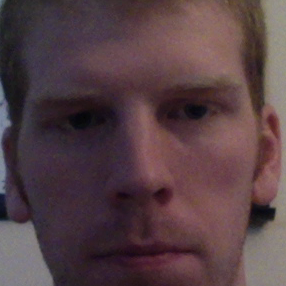
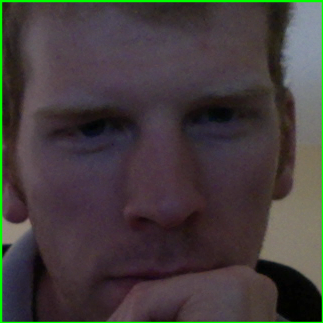
Update to add detection and squares.

diff --git a/src/FaceScanner.java b/src/FaceScanner.java
@@ -14,6 +14,7 @@ import org.neuroph.imgrec.ImageRecognitionHelper;
 public class FaceScanner{
     
 	IplImage image;
+	static boolean displayRects;
 	static String filename;
 	static String recFilename;
 	static int width, height, x, y;
@@ -32,6 +33,7 @@ public class FaceScanner{
 		x = 0;
 		y = 0;
 		recognize = false;
+		displayRects = true;
 		
 		//helper = new ImageRecognitionHelper();
 		canvasDim = new Dimension();
@@ -76,21 +78,25 @@ public class FaceScanner{
 				try{
 					faceDetect.DetectFaces(image);		//Used primarily to populate the width, height, and location of the face to be detected.
 					
-					/*Uncomment to display the detection lines and uncomment the rectangle drawing in FaceDetector class*/
-					//canvas.showImage(image);
-					//Thread.sleep(1000);		//Delay time to see the faces that are detected before choosing the closest.
-					//image = cvLoadImage(filename, 1); 	//Reload image to remove rectangle
-					/*----------------------------------------*/
+					if(displayRects){
+						/*Uncomment to display the detection lines and uncomment the rectangle drawing in FaceDetector class*/
+						canvas.showImage(image);
+						Thread.sleep(1000);		//Delay time to see the faces that are detected before choosing the closest.
+						//image = cvLoadImage(filename, 1); 	//Reload image to remove rectangle
+						/*----------------------------------------*/
+					}	
 					
 					croppedImage = cropImage(image.getBufferedImage());
-					
-					/*Uncomment to zoom and show the closest face*/
-					//canvas.showImage(croppedImage);
-					/*-------------------------------------------*/
-					
+		
+					if(displayRects){
+						/*Uncomment to zoom and show the closest face*/
+						//canvas.showImage(croppedImage);
+						/*-------------------------------------------*/
+					}
 					cvSaveImage(filename, IplImage.createFrom(croppedImage));
 					//helper.createNewNeuralNetwork("ann", canvasDim, ColorMode.FULL_COLOR, arg3, arg4, arg5);
 					JOptionPane.showMessageDialog(null, "User " + filename.replace(".png", "").replace("Users/", "") + " was added to the system.");
+					filename = "Users/temp.png";
 				} catch (Exception e) {
 					JOptionPane.showMessageDialog(null, "There are no faces detected, please rescan to try again.");
 				}
@@ -105,7 +111,7 @@ public class FaceScanner{
 					// Train the neural network with the images saved in Users and then 
 					// recognize the face by finding the user with the highest accuracy
 					// in comparing the two images.
-					//user = faceRecognize.callNetwork("Users/", recFilename, "temp");
+					user = faceRecognize.callNetwork("Users/", recFilename, "temp");
 					
 					JOptionPane.showMessageDialog(null, "User " + user + " was detected with a " + 10 +  "% accuracy level.");
 				} catch (Exception e) {

diff --git a/src/FacialRecognizer.java b/src/FacialRecognizer.java
@@ -30,11 +30,11 @@ public class FacialRecognizer {
 	 * OUTPUT: String of filename of that file in training directory
 	 */
 	public static String callNetwork(String dir, String dir2,String imageName) throws FileNotFoundException, IOException {
-		dir = "/Users/bradg0620/Dropbox/Projects/Java/Facial-Recognition/Users"; // directory of images for training
-		dir2 = "/Users/bradg0620/Dropbox/Projects/Java/Facial-Recognition/Users/Brad.png";		//location of file to be identified
-		imageName = "Brad";
+		//dir = "/Users/bradg0620/Dropbox/Projects/Java/Facial-Recognition/Users"; // directory of images for training
+		//dir2 = "/Users/bradg0620/Dropbox/Projects/Java/Facial-Recognition/Users/Brad.png";		//location of file to be identified
+		//imageName = "Brad";
 		String answer = "";
-		
+
         answer = identify(dir, dir2, imageName);
 		
 		return answer;
@@ -50,14 +50,19 @@ public class FacialRecognizer {
 		
 		final File dir = new File(dir1);
 		for(File imgFile : dir.listFiles()) {
-			String path = imgFile.getAbsolutePath();
-			String newPath = path.replace("\\", "/");
-		//	System.out.println(newPath);
-			fileName = imgFile.getName();
-			if(!newPath.contains("png"))
-				break;
-			aNode = runNN(newPath, dir2, fileName);
-			ary.add(aNode);
+			if(!imgFile.isHidden()){
+				String path = imgFile.getAbsolutePath();
+				String newPath = path.replace("\\", "/");
+			//	System.out.println(newPath);
+				fileName = imgFile.getName();
+				System.out.println("FileName: " + fileName);
+				System.out.println("New Path: " + newPath);
+				System.out.println("Dir 2 " + dir2);
+				if(!newPath.contains("png"))
+					break;
+				aNode = runNN(newPath, dir2, fileName);
+				ary.add(aNode);
+			}
 		}
 		
 		double lowest = ary.get(0).getFieldTwo();
@@ -96,7 +101,7 @@ public class FacialRecognizer {
 	         File imagefile = new File(dir1);
 	         img = ImageIO.read(imagefile);   
 	     } catch (IOException e) {
-	     	System.out.println("yeah IOException");  
+	     	System.out.println("IOException");  
 	     }
 
 		samplingResolution.setHeight(img.getHeight());

diff --git a/src/FaceDetector.java b/src/FaceDetector.java
@@ -3,12 +3,17 @@ import java.awt.image.ColorConvertOp;
 
 import com.googlecode.javacv.cpp.opencv_core.IplImage;
 import com.googlecode.javacv.cpp.opencv_core.CvRect;
+import com.googlecode.javacv.cpp.opencv_core.CvScalar;
 import com.googlecode.javacv.cpp.opencv_core.CvMemStorage;
 import com.googlecode.javacv.cpp.opencv_objdetect.CvHaarClassifierCascade;
 import com.googlecode.javacv.cpp.opencv_core.CvSeq;
 import static com.googlecode.javacv.cpp.opencv_core.cvLoad;
+import static com.googlecode.javacv.cpp.opencv_highgui.*;
 import static com.googlecode.javacv.cpp.opencv_core.cvGetSeqElem;
+import static com.googlecode.javacv.cpp.opencv_core.cvRectangle;
+import static com.googlecode.javacv.cpp.opencv_core.cvPoint;
 import static com.googlecode.javacv.cpp.opencv_objdetect.cvHaarDetectObjects;
+import static com.googlecode.javacv.cpp.opencv_core.CV_AA;
 
 public class FaceDetector {
  
@@ -51,12 +56,14 @@ public class FaceDetector {
 			    FaceScanner.y = rect.y();
 		    }
 
-		    /*Uncomment to draw the rectangles around the detected faces.*/
-		    //if(rect.width() > 130 && rect.height() > 130){
-		    	// Draw a square around the detected face.
-		    	//cvRectangle(image, cvPoint(rect.x(), rect.y()), cvPoint(rect.x() + rect.width(), rect.y() + rect.height()), CvScalar.GREEN, 2, CV_AA, 0);
-		  	//}
-		  	/*-----------------------------------------------------------*/
+		    if(FaceScanner.displayRects){
+			    /*Uncomment to draw the rectangles around the detected faces.*/
+			    //if(rect.width() > 130 && rect.height() > 130){
+			    	// Draw a square around the detected face.
+			    	cvRectangle(image, cvPoint(rect.x(), rect.y()), cvPoint(rect.x() + rect.width(), rect.y() + rect.height()), CvScalar.GREEN, 2, CV_AA, 0);
+			  	//}
+			  	/*-----------------------------------------------------------*/
+		    }
 	    }
 	 
 	    // Checks that there was a detected face in the image before saving. Also, the detected "face" must be large enough to be considered

diff --git a/lib/neuroph-2.7/sources/neuroph-2.7/Core/src/main/java/org/neuroph/core/NeuralNetwork.java b/lib/neuroph-2.7/sources/neuroph-2.7/Core/src/main/java/org/neuroph/core/NeuralNetwork.java
@@ -97,7 +97,7 @@ public class NeuralNetwork implements Serializable {
      */
     public NeuralNetwork() {
         this.layers = new Layer[0];
-        this.plugins = new HashMap<>();
+        this.plugins = new HashMap();
     }
     
     /**
